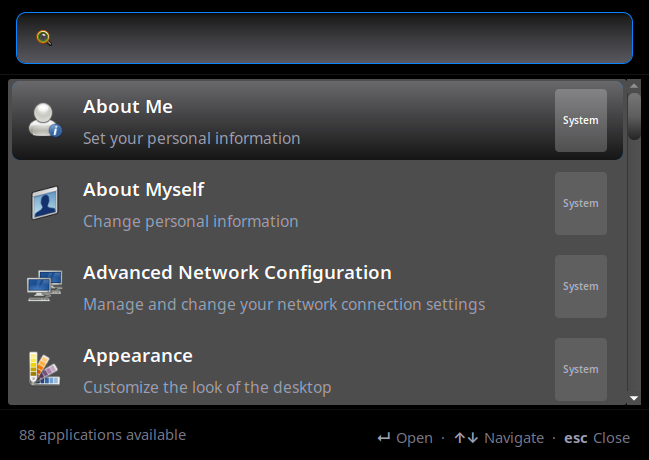
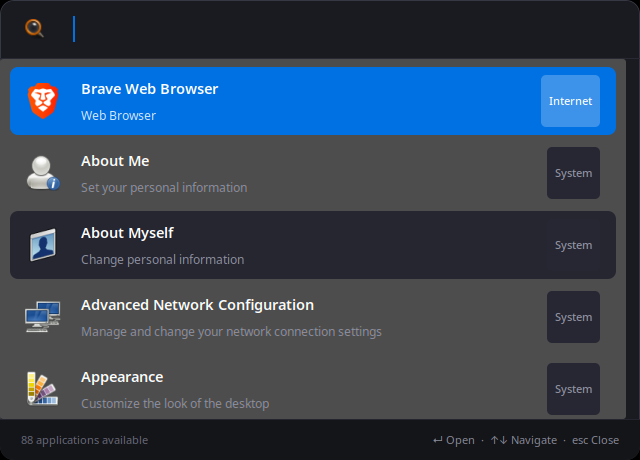
feat(ui): redesign to opaque dark canvas and borderless Spotlight search bar (v1.2.0)

diff --git a/README.md b/README.md
@@ -6,7 +6,7 @@ A premium, macOS Spotlight & Raycast inspired application launcher for Linux des
 
 ## Highlights
 
-- **Frosted Acrylic Glass UI**: Modern dark translucent design with rounded corners and subtle drop shadows.
+- **Premium Spotlight Dark UI**: High-contrast dark canvas (`#1a1b20`), borderless search bar, clean Apple Cupertino blue selection, and hidden scrollbars designed for zero background bleed-through.
 - **Instant Application Search**: Loads and queries desktop applications via native `Gio.AppInfo` in under 15ms.
 - **Smart Learning & Frequency Scoring**: Tracks app usage (`~/.cache/quick-launch/history.json`) to automatically boost your most-used applications to the top.
 - **Inline Calculator & Math Evaluation**: Type expressions like `1024 * 1024`, `sqrt(144)`, or `24 * 60` for immediate answers. Press Enter to copy the result to your clipboard.
